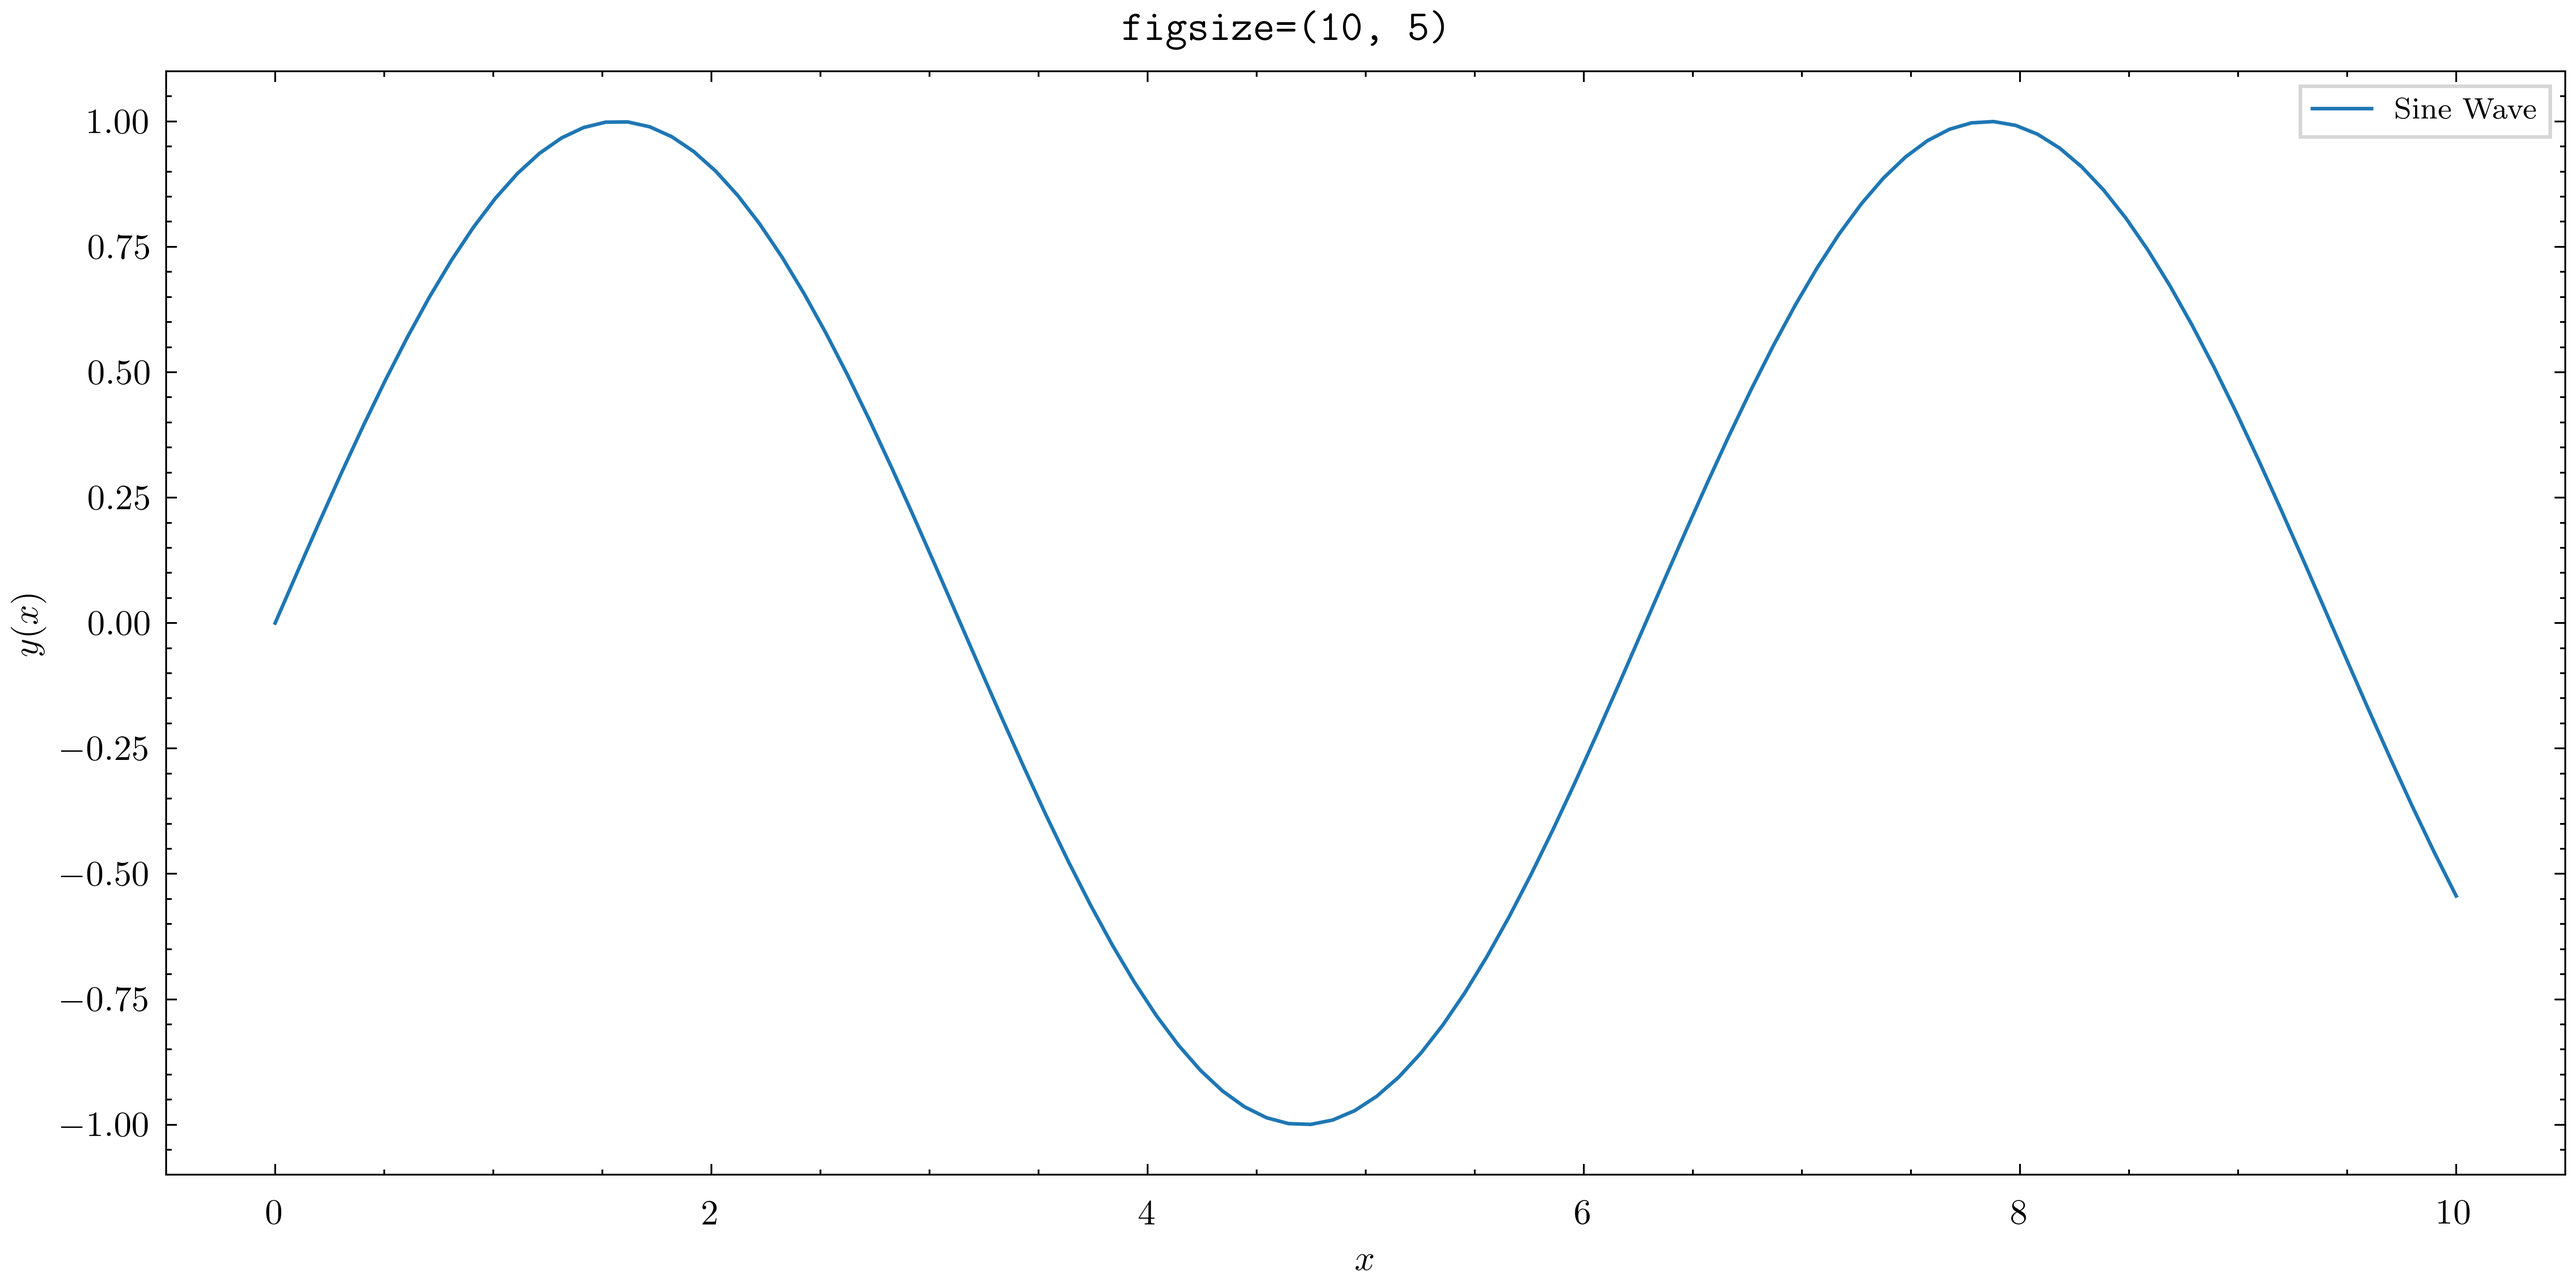
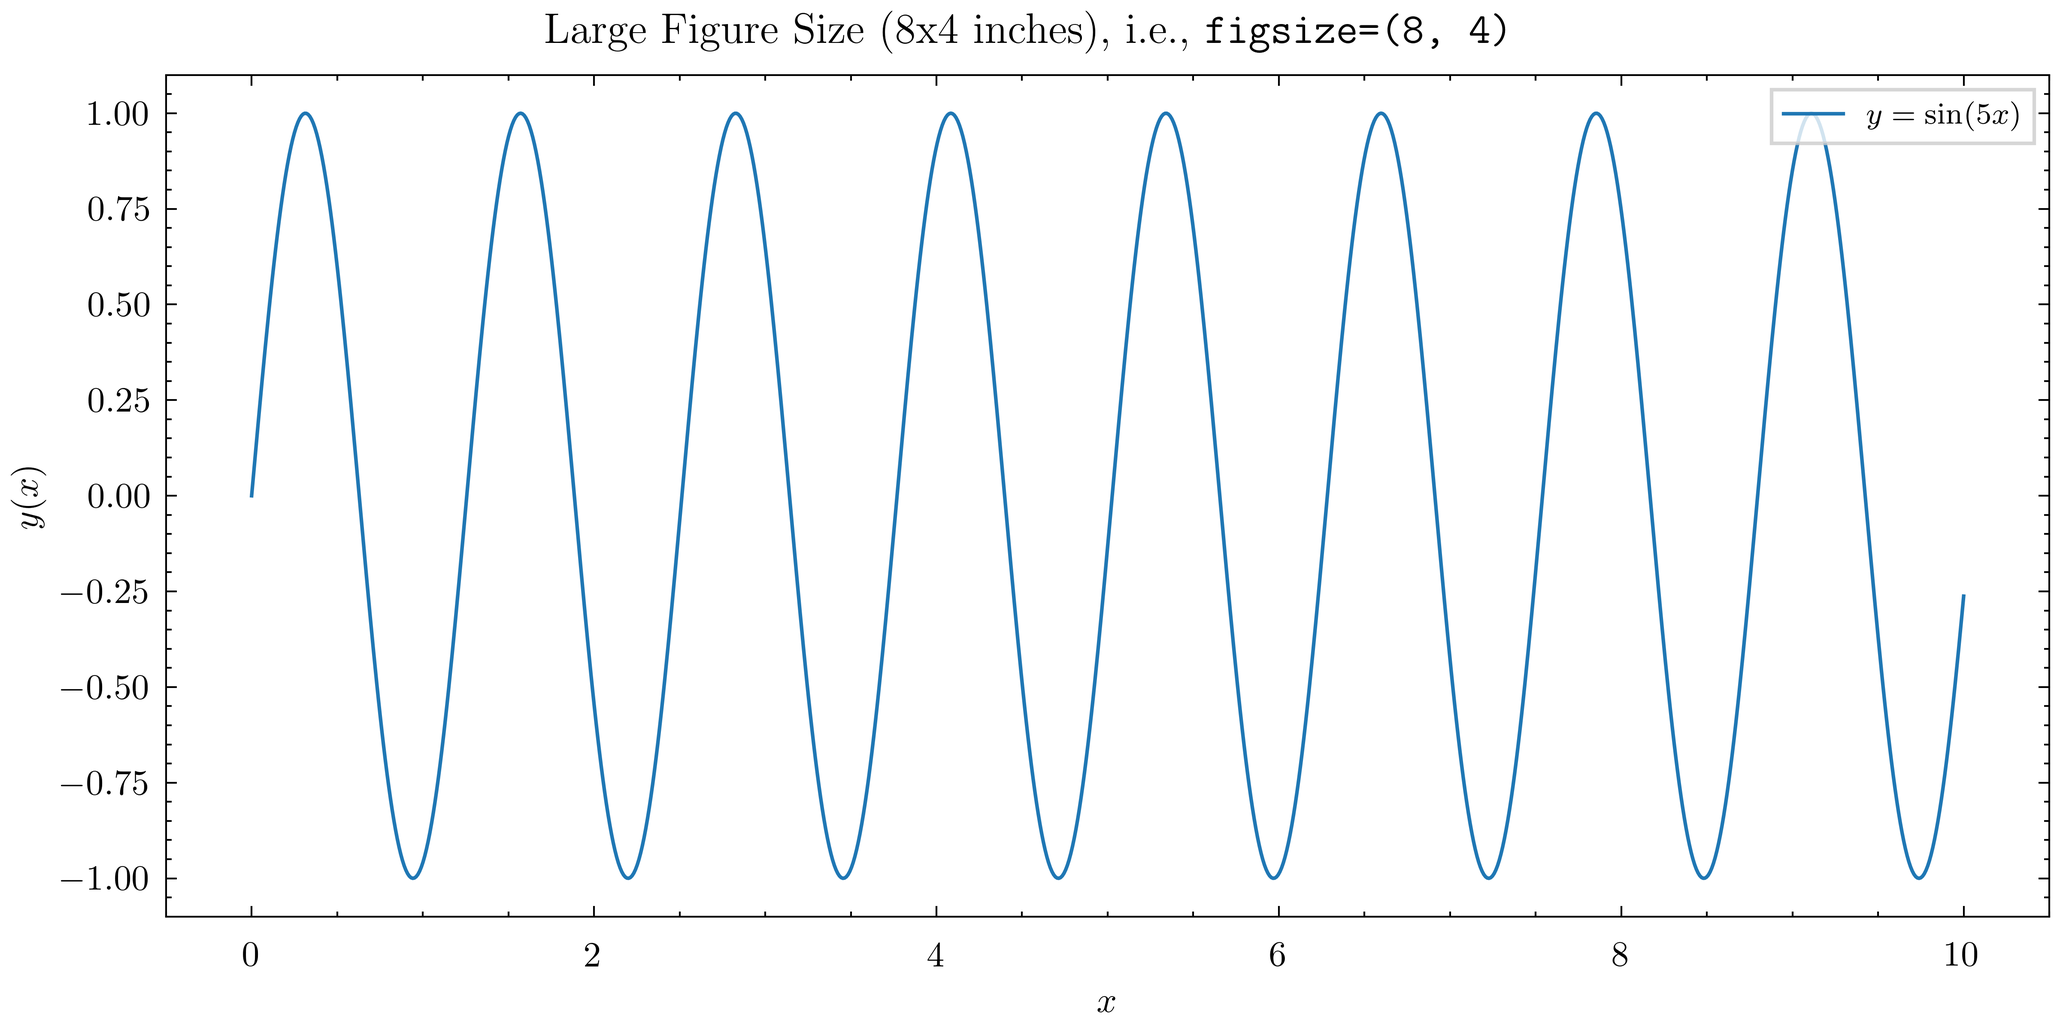
feat: update mpl-size documentation and examples; add DPI explanation

diff --git a/docs/mpl/mpl-size.py b/docs/mpl/mpl-size.py
@@ -3,23 +3,21 @@ import numpy as np
 
 plt.style.use("physics_plot.pp_base")
 
+x = np.linspace(0, 10, 1000)
+y = np.sin(5 * x)
+
 fig, ax = plt.subplots(figsize=(4, 2), constrained_layout=True)
-x = np.linspace(0, 10, 100)
-y = np.sin(x)
-ax.plot(x, y, label="Sine Wave")
+ax.plot(x, y, label=r"$y = \sin(5x)$")
 ax.set_ylabel(r"$y(x)$")
 ax.set_xlabel(r"$x$")
 ax.legend(loc="upper right")
-fig.suptitle(r"\texttt{figsize=(4, 2)}")
+fig.suptitle(r"Small Figure Size (4x2 inches), i.e., \texttt{figsize=(4, 2)}")
 fig.savefig("mpl-size-sm.png")
 
-
-fig, ax = plt.subplots(figsize=(10, 5), constrained_layout=True)
-x = np.linspace(0, 10, 100)
-y = np.sin(x)
-ax.plot(x, y, label="Sine Wave")
+fig, ax = plt.subplots(figsize=(8, 4), constrained_layout=True)
+ax.plot(x, y, label=r"$y = \sin(5x)$")
 ax.set_ylabel(r"$y(x)$")
 ax.set_xlabel(r"$x$")
 ax.legend(loc="upper right")
-fig.suptitle(r"\texttt{figsize=(10, 5)}")
+fig.suptitle(r"Large Figure Size (8x4 inches), i.e., \texttt{figsize=(8, 4)}")
 fig.savefig("mpl-size-lg.png")

diff --git a/docs/mpl/mpl-size.md b/docs/mpl/mpl-size.md
@@ -1,3 +1,5 @@
+## Decreasing Figure Size to Increase Font Size
+
 The first and the most important trick when plotting with Matplotlib is to set the figure size appropriately.
 If you want to increase the font size and line width everywhere in the figure, the easiest way is to **decrease the figure size**!
 
@@ -12,3 +14,21 @@ If you want to increase the font size and line width everywhere in the figure, t
 
 ![small size](mpl-size-sm.png) 
 ![large size](mpl-size-lg.png)
+
+
+## DPI
+
+The native figure size unit in Matplotlib is inches as documented [here](https://matplotlib.org/stable/gallery/subplots_axes_and_figures/figure_size_units.html).
+When we intentionally set a small figure size (e.g., 4x2 inches), we can increase the DPI (dots per inch) to get a larger (higher resolution / size in pixels) image without changing the relative sizes of text elements.
+
+The DPI can be set when creating the figure using the `dpi` argument:
+
+```python
+import matplotlib.pyplot as plt
+fig, ax = plt.subplots(figsize=(4, 2), dpi=600)
+```
+or specified when saving the figure using the `dpi` argument of `savefig`:
+
+```python
+fig.savefig("figure.png", dpi=600)
+```
